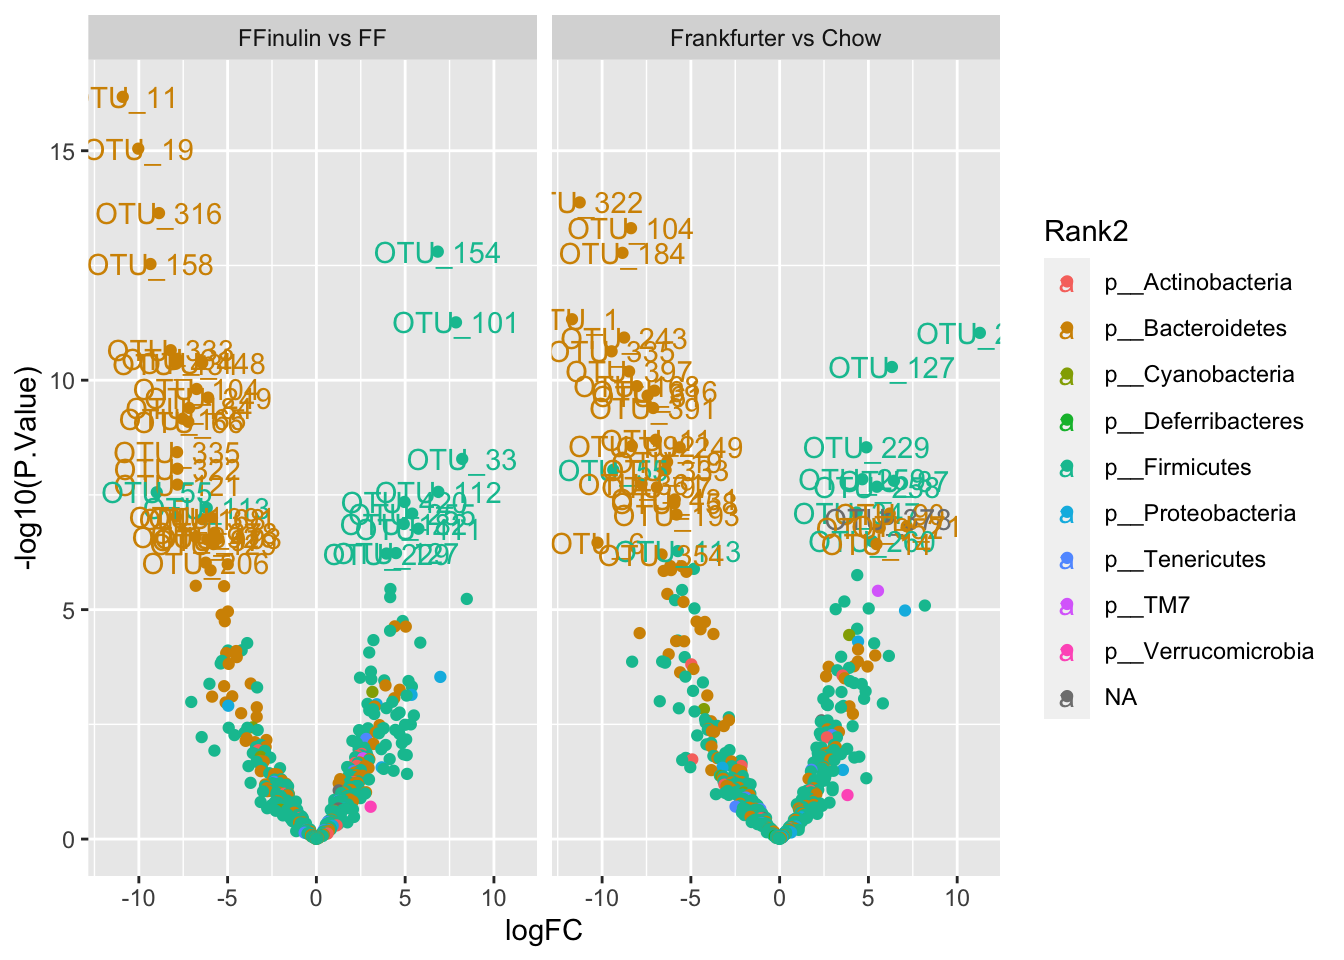
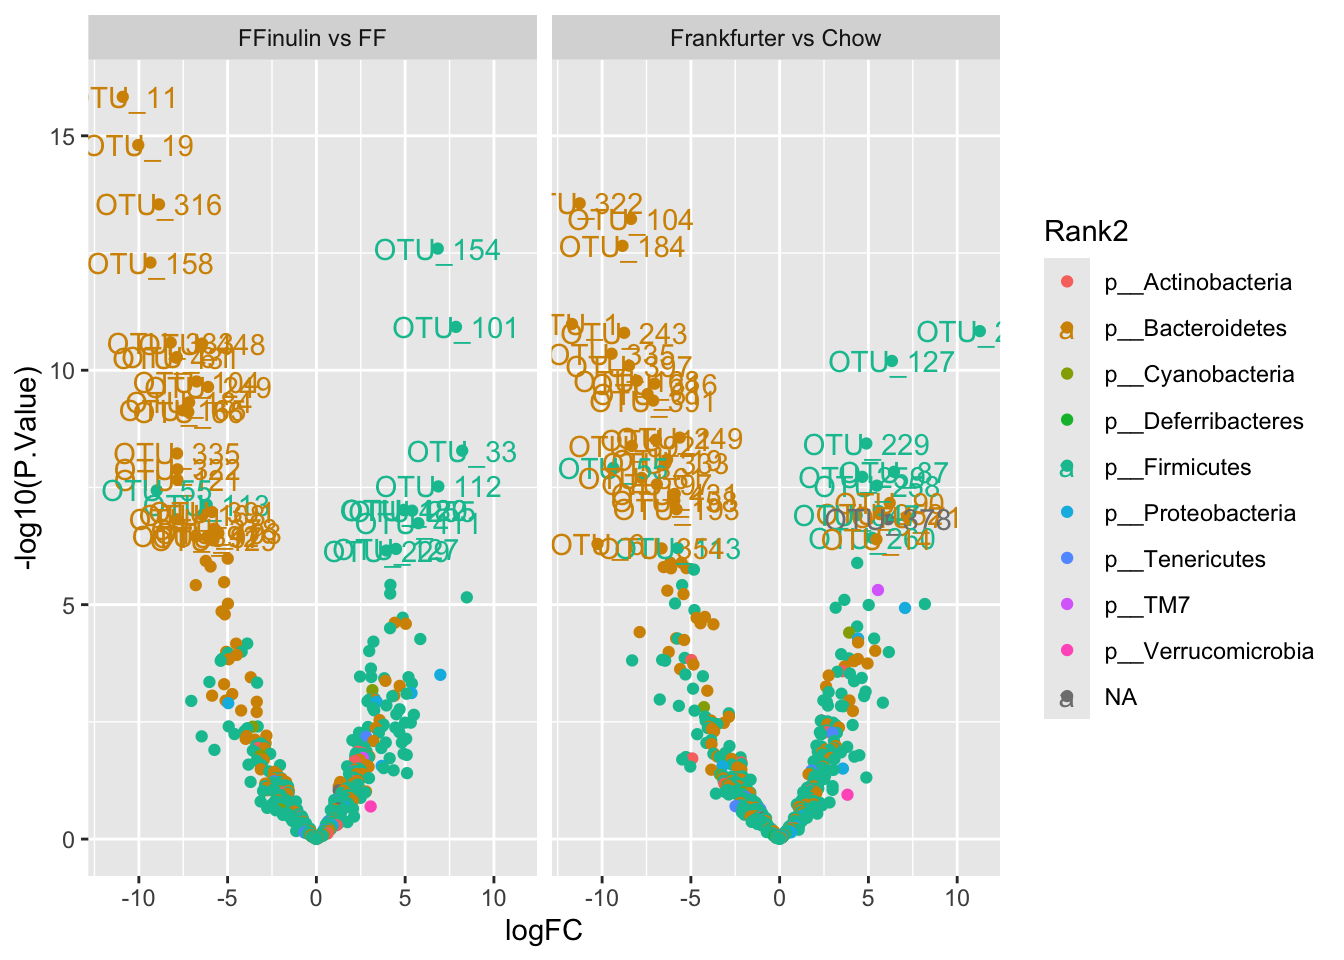
Updates with more packages

diff --git a/DAmixed.html b/DAmixed.html
@@ -13,7 +13,7 @@
 
 <title>Differential Abundance for Repeated measures</title>
 
-<script src="site_libs/header-attrs-2.24/header-attrs.js"></script>
+<script src="site_libs/header-attrs-2.27/header-attrs.js"></script>
 <script src="site_libs/jquery-3.6.0/jquery-3.6.0.min.js"></script>
 <meta name="viewport" content="width=device-width, initial-scale=1" />
 <link href="site_libs/bootstrap-3.3.5/css/cosmo.min.css" rel="stylesheet" />
@@ -446,44 +446,44 @@ fitmm = eBayes(fitmm)</code></pre>
 ## 3   OTU_14          9.730454           10.65863                14.601279
 ## 4   OTU_51         10.745896           11.46514                10.236039
 ## 5   OTU_19         14.408681           13.52770                 8.909757
-## 6    OTU_4         13.206092           15.21415                13.989912
-## 7   OTU_11         14.922619           14.65879                 7.675523
-## 8  OTU_431         13.114981           12.64798                 7.995959
+## 6  OTU_431         13.114981           12.64798                 7.995959
+## 7   OTU_73          9.833801           10.66760                 9.274168
+## 8   OTU_11         14.922619           14.65879                 7.675523
 ## 9  OTU_306         13.636541           12.95483                12.045826
-## 10  OTU_13         12.522803           13.23759                12.711333
+## 10   OTU_4         13.206092           15.21415                13.989912
 ##    timeStart.DietFrankfurter timeSlut.DietFrankfurterinulin
 ## 1                   14.20794                      15.115094
 ## 2                   14.68724                      15.501351
 ## 3                   10.07538                      13.750277
 ## 4                   11.29011                      10.225030
 ## 5                   14.36788                       5.167834
-## 6                   15.91445                      13.369206
-## 7                   14.38631                       4.287265
-## 8                   13.43585                       5.947968
+## 6                   13.43585                       5.947968
+## 7                   10.41911                       9.392297
+## 8                   14.38631                       4.287265
 ## 9                   12.76416                      12.901823
-## 10                  13.87313                      12.428481
-##    timeStart.DietFrankfurterinulin  AveExpr         F      P.Value    adj.P.Val
-## 1                         14.39189 14.86067 1509.4112 9.918514e-65 4.760887e-62
-## 2                         14.82856 15.28019 1468.9729 2.270717e-64 5.449722e-62
-## 3                         10.26513 11.82757 1001.6910 2.625144e-59 4.200230e-57
-## 4                         11.27411 10.82088  931.5230 2.384366e-58 2.861240e-56
-## 5                         14.31967 11.27606  905.1637 5.700295e-58 5.472283e-56
-## 6                         15.48022 14.60381  852.4721 3.518427e-57 2.814742e-55
-## 7                         14.92897 11.09418  841.6390 5.185987e-57 3.556105e-55
-## 8                         13.37876 10.66977  834.6124 6.687445e-57 3.858178e-55
-## 9                         12.89817 12.73914  832.4529 7.234084e-57 3.858178e-55
-## 10                        14.07141 13.19170  807.0987 1.847908e-56 8.869959e-55
-##       F.std
-## 1  52.26774
-## 2  51.98809
-## 3  48.04994
-## 4  47.30412
-## 5  47.00946
-## 6  46.39404
-## 7  46.26285
-## 8  46.17686
-## 9  46.15029
-## 10 45.83312</code></pre>
+## 10                  15.91445                      13.369206
+##    timeStart.DietFrankfurterinulin   AveExpr         F      P.Value
+## 1                         14.39189 14.860674 1372.7772 1.869704e-62
+## 2                         14.82856 15.280190 1313.5472 6.983454e-62
+## 3                         10.26513 11.827566  998.9851 2.461828e-58
+## 4                         11.27411 10.820879  961.2841 7.744316e-58
+## 5                         14.31967 11.276058  891.6191 7.272915e-57
+## 6                         13.37876 10.669767  841.9919 3.995825e-56
+## 7                         10.40387  9.935601  838.5149 4.519067e-56
+## 8                         14.92897 11.094185  821.5593 8.295366e-56
+## 9                         12.89817 12.739143  821.3184 8.368001e-56
+## 10                        15.48022 14.603814  816.5737 9.940814e-56
+##       adj.P.Val    F.std
+## 1  8.974579e-60 50.49855
+## 2  1.676029e-59 50.05344
+## 3  3.938925e-56 47.29331
+## 4  9.293179e-56 46.90585
+## 5  6.981998e-55 46.14848
+## 6  3.098789e-54 45.57227
+## 7  3.098789e-54 45.53065
+## 8  4.462934e-54 45.32519
+## 9  4.462934e-54 45.32224
+## 10 4.771591e-54 45.26398</code></pre>
 <p>This is overall effects. Obviously, diet changes the microbiome.
 However, what we are interested in is the contrasts.</p>
 </div>
@@ -739,16 +739,16 @@ res %&gt;%
   select(logFC,P.Value,adj.P.Val, B, contrast, Class:Species) %&gt;% 
   head(10)</code></pre>
 <pre><code>##         logFC      P.Value  adj.P.Val          B     contrast
-## 1   1.2932479 0.0001024946 0.03812800  0.3012888 Ferm - Fiber
-## 2   1.2681159 0.0001362225 0.04467881  0.8456856    Fermented
-## 3   0.9087402 0.0002402087 0.04467881  0.3662595    Fermented
-## 4   1.0778592 0.0022566222 0.27982115 -1.5366659    Fermented
-## 5   0.4486806 0.0013002741 0.31436161 -1.3313655        Fiber
-## 6   0.6832015 0.0019131848 0.31436161 -1.7094167        Fiber
-## 7   1.1965432 0.0025351743 0.31436161 -1.9659901        Fiber
-## 8   1.0237319 0.0039914324 0.36911569 -2.2891173        Fiber
-## 9  -0.4963649 0.0066550074 0.36911569 -2.4414255        Fiber
-## 10  0.8612708 0.0079569592 0.36911569 -2.7410798        Fiber
+## 1   1.2932479 0.0001037790 0.03860580  0.3005397 Ferm - Fiber
+## 2   1.2681159 0.0001409278 0.04517349  0.8282160    Fermented
+## 3   0.9087402 0.0002428682 0.04517349  0.3544897    Fermented
+## 4   1.0778592 0.0023135990 0.28688628 -1.5618816    Fermented
+## 5   0.4486806 0.0012295024 0.32268288 -1.3514304        Fiber
+## 6   0.6832015 0.0018989680 0.32268288 -1.6626141        Fiber
+## 7   1.1965432 0.0026022813 0.32268288 -1.7994697        Fiber
+## 8   1.0237319 0.0040683468 0.37491912 -2.1836006        Fiber
+## 9  -0.4963649 0.0067053782 0.37491912 -2.5013149        Fiber
+## 10  0.8612708 0.0080586011 0.37491912 -2.6994468        Fiber
 ##                     Class             Order                Family
 ## 1           c__Clostridia  o__Clostridiales    f__Ruminococcaceae
 ## 2           c__Clostridia  o__Clostridiales    f__Ruminococcaceae

diff --git a/pkgs.html b/pkgs.html
@@ -13,7 +13,7 @@
 
 <title>Packages</title>
 
-<script src="site_libs/header-attrs-2.24/header-attrs.js"></script>
+<script src="site_libs/header-attrs-2.27/header-attrs.js"></script>
 <script src="site_libs/jquery-3.6.0/jquery-3.6.0.min.js"></script>
 <meta name="viewport" content="width=device-width, initial-scale=1" />
 <link href="site_libs/bootstrap-3.3.5/css/cosmo.min.css" rel="stylesheet" />
@@ -325,24 +325,41 @@ $(document).ready(function () {
 </div>
 <div id="packages" class="section level1 unnumbered">
 <h1 class="unnumbered">Packages</h1>
+<div id="from-cran" class="section level2 unnumbered">
+<h2 class="unnumbered">From CRAN</h2>
+<p>These can be installed directly using install.packages()</p>
 <p><strong>ggplot2</strong>: For plotting data ggplot2 is very useful -
 can be installed from CRAN</p>
+<p><strong>ggpubr</strong>: For modifying ggplot2 plots to be even more
+informative</p>
+<p><strong>ggrepel</strong>, <strong>ggnetwork</strong> and
+<strong>pheatmap</strong>: additional plotting tools</p>
 <p><strong>tidyverse</strong>: A collection of general data handling
 tools gaining much popularity within the R user community</p>
+<p><strong>broom</strong>: A tidyverse add-on making it easy to compute
+the same type of model across subsets of data and/or several response
+variables</p>
+<p><strong>picante</strong>: Phylogenetic integration in analysis</p>
+<p><strong>ape</strong>: For handling phylogenetic trees this package is
+good.</p>
+<p><strong>vegan</strong>: Vegan is a very useful package with a lot of
+functionality. However, here we use only the adonis() function.</p>
+<p><strong>phyloseqGraphTest</strong> and <strong>compositions</strong>:
+Specific tools microbiome data</p>
+<p><strong>readr</strong>, <strong>glue</strong>,
+<strong>reshape2</strong>, <strong>DT</strong>,
+<strong>lsmeans</strong>, and <strong>devtools</strong>: additional
+tools for making life easier.</p>
+<p><strong>BiocManager</strong>: A package to install things from
+Bioconductor</p>
+</div>
+<div id="from-bioconductor" class="section level2 unnumbered">
+<h2 class="unnumbered">From Bioconductor</h2>
+<p>These can be installed using the BiocManager package:
+BiocManager::install()</p>
 <p><strong>phyloseq</strong>: There are several packages for handling
 microbiome type data. For this course we use phyloseq see <a
 href="https://joey711.github.io/phyloseq/tutorials-index.html">tutorial</a></p>
-<p><strong>metagMisc</strong>: A package with functionallity for
-cross-talk between different packages found on <a
-href="https://rdrr.io/github/vmikk/metagMisc/">github</a></p>
-<p><strong>vegan</strong>: Vegan is a very useful package with a lot of
-functionality. However, here we use only the adonis() function.</p>
-<p><strong>ape</strong>: For handling phylogenetic trees this package is
-good.</p>
-<p><strong>picante</strong>: Phylogenetic integration in analysis</p>
-<p><strong>DAtest</strong>: This a custome made <em>single purpose</em>
-package to be found on <a
-href="https://github.com/Russel88/DAtest">github</a></p>
 <p><strong>DESeq2</strong>: This package is developed for
 <em>Differential Expression</em> statistics for RNA-seq data. However,
 it is widely used for microbiome data as well.</p>
@@ -354,13 +371,31 @@ featureModel() is used.</p>
 <p><strong>variancePartition</strong> and <strong>edgeR</strong>: As
 limma, but makign mixed models doable, for instance from longitudinal /
 repeated measures experiments.</p>
-<p><strong>BiocParallel</strong>: Getting stuff to run quicker.</p>
 <p><strong>ggtree</strong>: A nice vizualisation package for plotting
 tree, build on top of ggplot2 functionality.</p>
+<p><strong>BiocParallel</strong>: Getting stuff to run quicker.</p>
+<p><strong>vsn</strong>: Normalizing toolbox ported from Microarray data
+analysis.</p>
+</div>
+<div id="from-github" class="section level2 unnumbered">
+<h2 class="unnumbered">From Github</h2>
+<p>These can be installed using the packages devtools or remotes (both
+available on CRAN) usign devtools::install_github() or
+remotes::install_github()</p>
+<p><strong>metagMisc</strong>: A package with functionallity for
+cross-talk between different packages found on <a
+href="https://rdrr.io/github/vmikk/metagMisc/">github</a></p>
+<p><strong>DAtest</strong>: This a custome made <em>single purpose</em>
+package to be found on <a
+href="https://github.com/Russel88/DAtest">github</a></p>
+<p><strong>qiime2R</strong>: Package for porting between QIIME (python
+environment) and R. Can be installed by
+devtools::install_github(“jbisanz/qiime2R”).</p>
 <p>For details on installation and getting-started, please check
 vignettes, help-documentation, google, youtube,…. Most things are pretty
 easy to copy-paste and run from examples and then exchange with your own
 data.</p>
+</div>
 </div>
 
 

diff --git a/cca.html b/cca.html
@@ -13,7 +13,7 @@
 
 <title>Canonical Correlation Analysis</title>
 
-<script src="site_libs/header-attrs-2.24/header-attrs.js"></script>
+<script src="site_libs/header-attrs-2.27/header-attrs.js"></script>
 <script src="site_libs/jquery-3.6.0/jquery-3.6.0.min.js"></script>
 <meta name="viewport" content="width=device-width, initial-scale=1" />
 <link href="site_libs/bootstrap-3.3.5/css/cosmo.min.css" rel="stylesheet" />
@@ -450,16 +450,16 @@ R &lt;- fixKernelMatrix(exp(-D))</code></pre>
 
 print(res_pen$res_df)</code></pre>
 <pre><code>##            A p_corr_cmp1 p_corr_cmp2 p_var_cmp1 p_var_cmp2
-## 1  0.0000000           0  0.00000000          0 0.03333333
-## 2  0.1111111           0  0.00000000          0 0.00000000
-## 3  0.2222222           0  0.03333333          0 0.00000000
-## 4  0.3333333           0  0.00000000          0 0.00000000
-## 5  0.4444444           0  0.00000000          0 0.00000000
-## 6  0.5555556           0  0.06666667          0 0.00000000
-## 7  0.6666667           0  0.00000000          0 0.00000000
-## 8  0.7777778           0  0.00000000          0 0.03333333
-## 9  0.8888889           0  0.00000000          0 0.00000000
-## 10 1.0000000           0  0.16666667          0 0.36666667</code></pre>
+## 1  0.0000000  0.03333333  0.00000000          0  0.0000000
+## 2  0.1111111  0.00000000  0.00000000          0  0.0000000
+## 3  0.2222222  0.00000000  0.00000000          0  0.0000000
+## 4  0.3333333  0.03333333  0.03333333          0  0.0000000
+## 5  0.4444444  0.00000000  0.03333333          0  0.0000000
+## 6  0.5555556  0.00000000  0.00000000          0  0.0000000
+## 7  0.6666667  0.00000000  0.00000000          0  0.0000000
+## 8  0.7777778  0.00000000  0.00000000          0  0.0000000
+## 9  0.8888889  0.00000000  0.00000000          0  0.0000000
+## 10 1.0000000  0.00000000  0.30000000          0  0.4333333</code></pre>
 <p>Now we take a descision on which model to use and extract it in a
 similar fashion as above. Resulting in the microbiome loadingplot
 below.</p>

diff --git a/alphadiv.html b/alphadiv.html
@@ -13,7 +13,7 @@
 
 <title>Alpha Diversity</title>
 
-<script src="site_libs/header-attrs-2.24/header-attrs.js"></script>
+<script src="site_libs/header-attrs-2.27/header-attrs.js"></script>
 <script src="site_libs/jquery-3.6.0/jquery-3.6.0.min.js"></script>
 <meta name="viewport" content="width=device-width, initial-scale=1" />
 <link href="site_libs/bootstrap-3.3.5/css/cosmo.min.css" rel="stylesheet" />
@@ -338,6 +338,7 @@ different versions.</p>
 <p>These can easily be calculated and visualized according to a given
 design.</p>
 <pre class="r"><code>library(ggplot2)
+library(ggpubr)
 library(phyloseq)
 load(&#39;./data/Mice_csec.RData&#39;)
 
@@ -347,11 +348,13 @@ AlphaD &lt;- pp$data
 ggplot(data = AlphaD, aes(Birth_mode, value, fill = Birth_mode)) + 
   geom_boxplot() + 
   geom_jitter() + 
-  facet_wrap(~variable, scales = &#39;free&#39;) + 
+  stat_compare_means(vjust = 1,method = &#39;t.test&#39;) + 
+  facet_wrap(~variable, nrow = 2, scales = &#39;free&#39;) + 
   theme(legend.position = &#39;top&#39;)</code></pre>
 <p><img src="alphadiv_files/figure-html/unnamed-chunk-1-1.png" width="672" /></p>
 <p>What you see here, is some indications of <em>vaginal delivery</em>
-results in lower diversity.</p>
+results in lower diversity. However, due to the low n significance is
+hard to achieve.</p>
 <p>Shannon diversity is a metric with relatively high dependency on rare
 OTUs. <em>Simpson</em> diversity (and <em>Inverse Simpson</em>) depends
 on the even-ness of the observed OTUs in the samples and is hence

diff --git a/DA.html b/DA.html
@@ -13,7 +13,7 @@
 
 <title>Differential Abundance Testing</title>
 
-<script src="site_libs/header-attrs-2.24/header-attrs.js"></script>
+<script src="site_libs/header-attrs-2.27/header-attrs.js"></script>
 <script src="site_libs/jquery-3.6.0/jquery-3.6.0.min.js"></script>
 <meta name="viewport" content="width=device-width, initial-scale=1" />
 <link href="site_libs/bootstrap-3.3.5/css/cosmo.min.css" rel="stylesheet" />
@@ -319,7 +319,7 @@ $(document).ready(function () {
 </div>
 
 
-<p>TEST Having a study design in with there are two (or more) groups of
+<p>Having a study design in with there are two (or more) groups of
 samples, say male/female, diet1/diet2, etc. one is often interested in
 knowing:</p>
 <ul>

diff --git a/site_libs/header-attrs-2.27/header-attrs.js b/site_libs/header-attrs-2.27/header-attrs.js
@@ -1,0 +1,12 @@
+// Pandoc 2.9 adds attributes on both header and div. We remove the former (to
+// be compatible with the behavior of Pandoc < 2.8).
+document.addEventListener('DOMContentLoaded', function(e) {
+  var hs = document.querySelectorAll("div.section[class*='level'] > :first-child");
+  var i, h, a;
+  for (i = 0; i < hs.length; i++) {
+    h = hs[i];
+    if (!/^h[1-6]$/i.test(h.tagName)) continue;  // it should be a header h1-h6
+    a = h.attributes;
+    while (a.length > 0) h.removeAttribute(a[0].name);
+  }
+});

diff --git a/about.html b/about.html
@@ -13,7 +13,7 @@
 
 <title>Microbiome analysis using 2nd and 3rd generation DNA sequencing + multivariate data analysis</title>
 
-<script src="site_libs/header-attrs-2.24/header-attrs.js"></script>
+<script src="site_libs/header-attrs-2.27/header-attrs.js"></script>
 <script src="site_libs/jquery-3.6.0/jquery-3.6.0.min.js"></script>
 <meta name="viewport" content="width=device-width, initial-scale=1" />
 <link href="site_libs/bootstrap-3.3.5/css/cosmo.min.css" rel="stylesheet" />

diff --git a/index.html b/index.html
@@ -13,7 +13,7 @@
 
 <title>Microbiome Data Analysis</title>
 
-<script src="site_libs/header-attrs-2.24/header-attrs.js"></script>
+<script src="site_libs/header-attrs-2.27/header-attrs.js"></script>
 <script src="site_libs/jquery-3.6.0/jquery-3.6.0.min.js"></script>
 <meta name="viewport" content="width=device-width, initial-scale=1" />
 <link href="site_libs/bootstrap-3.3.5/css/cosmo.min.css" rel="stylesheet" />

diff --git a/adonistest.html b/adonistest.html
@@ -13,7 +13,7 @@
 
 <title>ANOVA on Beta Diversity</title>
 
-<script src="site_libs/header-attrs-2.24/header-attrs.js"></script>
+<script src="site_libs/header-attrs-2.27/header-attrs.js"></script>
 <script src="site_libs/jquery-3.6.0/jquery-3.6.0.min.js"></script>
 <meta name="viewport" content="width=device-width, initial-scale=1" />
 <link href="site_libs/bootstrap-3.3.5/css/cosmo.min.css" rel="stylesheet" />

diff --git a/betadiv.html b/betadiv.html
@@ -13,7 +13,7 @@
 
 <title>Beta Diversity</title>
 
-<script src="site_libs/header-attrs-2.24/header-attrs.js"></script>
+<script src="site_libs/header-attrs-2.27/header-attrs.js"></script>
 <script src="site_libs/jquery-3.6.0/jquery-3.6.0.min.js"></script>
 <meta name="viewport" content="width=device-width, initial-scale=1" />
 <link href="site_libs/bootstrap-3.3.5/css/cosmo.min.css" rel="stylesheet" />

diff --git a/prepro.html b/prepro.html
@@ -13,7 +13,7 @@
 
 <title>Preprocessing</title>
 
-<script src="site_libs/header-attrs-2.24/header-attrs.js"></script>
+<script src="site_libs/header-attrs-2.27/header-attrs.js"></script>
 <script src="site_libs/jquery-3.6.0/jquery-3.6.0.min.js"></script>
 <meta name="viewport" content="width=device-width, initial-scale=1" />
 <link href="site_libs/bootstrap-3.3.5/css/cosmo.min.css" rel="stylesheet" />

diff --git a/hm.html b/hm.html
@@ -13,7 +13,7 @@
 
 <title>Heatmaps</title>
 
-<script src="site_libs/header-attrs-2.24/header-attrs.js"></script>
+<script src="site_libs/header-attrs-2.27/header-attrs.js"></script>
 <script src="site_libs/jquery-3.6.0/jquery-3.6.0.min.js"></script>
 <meta name="viewport" content="width=device-width, initial-scale=1" />
 <link href="site_libs/bootstrap-3.3.5/css/cosmo.min.css" rel="stylesheet" />
